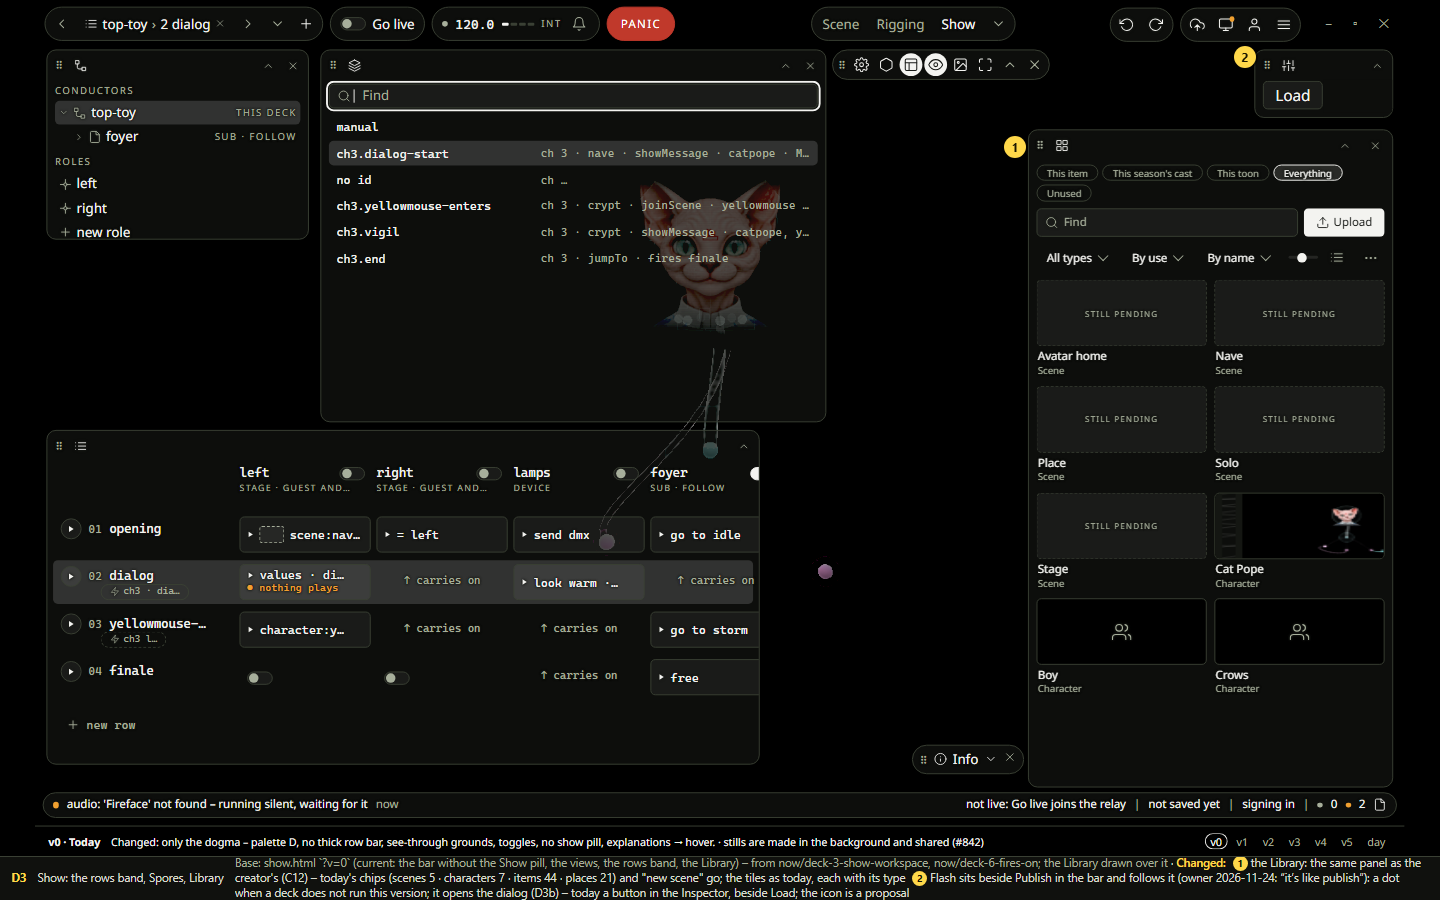
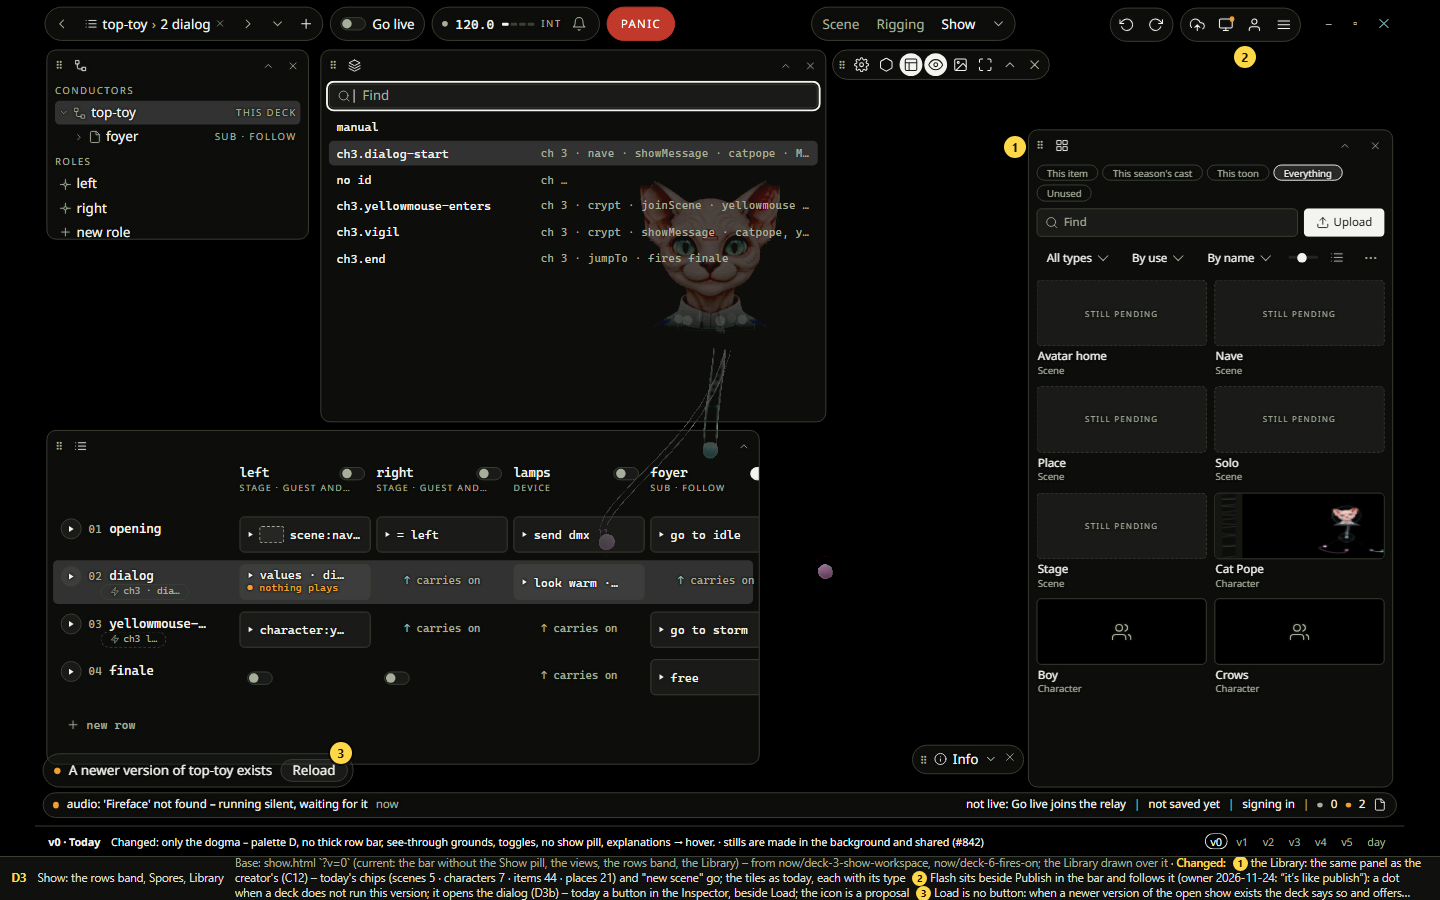
Lap 2: the deck's Load is a notice with Reload, not a button (RULES H19, owner 2026-11-24); D3 redrawn. Refs #626

Changed region(s): [[0.625, 0.9644, 0.9688, 1.0], [0.0312, 0.8089, 0.25, 0.8711], [0.875, 0.0622, 0.9375, 0.1244]]

diff --git a/agents/research/redesign/lap2/draft-screens.js b/agents/research/redesign/lap2/draft-screens.js
@@ -546,15 +546,17 @@ add('D', 'D2', 'Scene: Rig · Library · Inspector · Audio · Info · Mixer · 
 const SHOW_LIB = [['Avatar home','Scene',null],['Nave','Scene',null],['Place','Scene',null],['Solo','Scene',null],['Stage','Scene',null],['Cat Pope','Character',dkLibPic(290, 458, 100, 62)],['Boy','Character','users'],['Crows','Character','users']];
 add('D', 'D3', 'Show: the rows band, Spores, Library', 'show.html `?v=0` (current: the bar without the Show pill, the views, the rows band, the Library) – from now/deck-3-show-workspace, now/deck-6-fires-on; the Library drawn over it',
   ["the Library: the same panel as the creator's (C12) – today's chips (scenes 5 · characters 7 · items 44 · places 21) and \"new scene\" go; the tiles as today, each with its type",
-   'Flash sits beside Publish in the bar and follows it (owner 2026-11-24: “it’s like publish”): a dot when a deck does not run this version; it opens the dialog (D3b) – today a button in the Inspector, beside Load; the icon is a proposal'],
+   'Flash sits beside Publish in the bar and follows it (owner 2026-11-24: “it’s like publish”): a dot when a deck does not run this version; it opens the dialog (D3b) – today a button in the Inspector, beside Load; the icon is a proposal',
+   'Load is no button: when a newer version of the open show exists the deck says so and offers Reload – as the creator does (decided 2026-11-24); drawn above the status line, its place is a proposal'],
   () => `<iframe class="draft" src="show.html?v=0${DAY ? '&theme=day' : ''}"></iframe>
   <div class="abs" style="left:35px;top:0;width:1440px;height:900px;transform:scale(.95111);transform-origin:0 0" data-theme="night">
     <span class="abs" style="left:1040px;top:132px;width:392px;height:700px;background:#000"></span>
     <div class="fp" style="left:1044px;top:136px;width:384px;height:692px">${dkHead('grid')}<div class="bd">${libraryBody({ cols: 2, place: 'Everything', pvH: 70, tiles: SHOW_LIB })}</div></div>
     <span class="abs" style="left:1160px;top:4px;width:186px;height:44px;background:#000"></span>
-    <span class="abs" style="left:1355px;top:84px;width:72px;height:34px;background:#0d0e0c" title="the Flash button leaves the Inspector – it is in the bar now (no duplicates, H1)"></span>
+    <span class="abs" style="left:1276px;top:48px;width:160px;height:80px;background:#000" title="Load and Flash leave the Inspector: Flash is in the bar, Load is a notice"></span>
+    <span class="kp" style="position:absolute;left:8px;top:792px;gap:.6rem;padding:0 .35rem 0 .8rem;z-index:5"><span class="sdot" style="border-color:var(--tool-warn);background:var(--tool-warn);margin:0"></span>A newer version of top-toy exists<span class="kb plain" style="height:1.75rem">Reload</span></span>
     <span class="abs" style="left:1130px;top:8px;display:flex;gap:var(--kit-gap)"><span class="kp"><span class="kib">${ic('undo')}</span><span class="kib">${ic('redo')}</span></span><span class="kp"><span class="kib" title="Publish">${ic('cloud')}</span><span class="kib" title="Flash – a dot: a deck does not run this version">${ic('monitor')}<span class="dot"></span></span><span class="kib">${ic('user')}</span><span class="kib">${ic('menu')}</span></span></span></div>
-  ${mk(1, 1004, 136)}${mk(2, 1234, 46)}`);
+  ${mk(1, 1004, 136)}${mk(2, 1234, 46)}${mk(3, 330, 742)}`);
 /* D3b, D3c – the Show's Flash and Scene sheets as dialogs on the overlay level (decided 2026-11-24): the Show behind them blurred, the dialog a box of the kit. Their parts and words are today's (deck/editor/src/show/flash.rs with deck/show/src/choose.rs; new_scene.rs); the devices are top-toy's (the Conductors panel), the rigs the five in production. */
 const dlgBox = (x, y, w, h, title, body) => `<div class="fp" style="left:${x}px;top:${y}px;width:${w}px;height:${h}px;z-index:56"><div class="hd"><span class="tab on">${title}</span><span class="sp"></span><span class="ic" title="Esc">${ic('x')}</span></div><div class="bd">${body}</div></div>`;
 const dlgTick = (on) => `<span style="flex:none;width:1rem;height:1rem;border:1px solid var(--tool-${on ? 'text' : 'line'});border-radius:.2rem;display:grid;place-items:center;${on ? 'background:var(--tool-pressed);color:var(--tool-pressed-text)' : ''}">${on ? '<svg viewBox="0 0 24 24" style="width:.7rem;height:.7rem;fill:none;stroke:currentColor;stroke-width:3"><path d="M5 12l5 5 9-10"/></svg>' : ''}</span>`;

diff --git a/agents/decisions/law.md b/agents/decisions/law.md
@@ -4,6 +4,7 @@ The owner's words, one line each, newest first, append-only (how: agents/DECISIO
 Keys here: `[editor-style]` 33 the tools take the deck / OSCT editor style; the creator is desktop-only · `[vertex]` 1 OpenCode sessions use the `vienna-struggle` service account by the kind ladder · `[deck-rules-in-deck]` 3 deck rules live in the deck, the server keeps configuration · `[mcp-byo-ai]` 6 AI = the member's own Claude via MCP · `[worktree-requests]` 6 worktrees and branches: when, and the owner merges · `[docs]` 4 the docs structure and caps · `[language-neutral]` 3 everything language-independent · `[scenes-from-api]` 3 scenes are API content (entities), not TOML · `[audit]` 2 the bridge audit is standing and reruns often · `[browser-is-ui]` 2 the browser is UI, no business logic · `[designer-in-creator]` 2 the designer is in the creator; performance vs edit mode · `[dev-ports]` 2 fixed ports, one start routine · `[issues-only]` 2 all open work is GitHub issues · `[kanon]` 2 the Kanon (story texts) · `[mariadb]` 2 MariaDB only; production is the source · `[names]` 2 deck / stage environment / no master-slave wording · `[night-runs]` 2 unattended runs: merge to main, never push · `[no-cloud]` 2 no cloud sessions; workers local in worktrees · `[perf-first]` 2 performance and stability first · `[rigs-in-core]` 2 rigs and modules are Rust in the core · `[ai-license]` 1 AI models without the big companies' license limits · `[api-content]` 1 content from the API, JSON only as import / export · `[audiovisual]` 1 everything is audiovisual · `[board]` 1 the six board statuses · `[board-move]` 1 move issues along the board · `[bold]` 1 bold very rarely · `[branch-names]` 1 <kind>/<issue>-<title> · `[carrier-bag]` 1 "carrier bag" replaces inventory · `[codes]` 1 codes are case-sensitive · `[config-small]` 1 keep the configuration small · `[confirm]` 1 in-page confirmations · `[control-height]` 1 one control height · `[core-only]` 2 check:core-only ratchet · `[deck-ci-local]` 2 deck CI runs locally; stamps and the full tier · `[devices-via-core]` 1 camera / MIDI / sensors reach the core through adapters · `[done-green]` 1 done = green checks · `[drafts-first]` 1 bigger UI is drafted first · `[empty-states]` 1 empty states · `[fold]` 1 quiet fold buttons · `[law-book]` 1 this refactor · `[local-media]` 1 local media is a dev copy · `[mcp-draft-ok]` 1 save_draft always allowed · `[mcp-drafts]` 1 the AI saves drafts, the member confirms · `[mcp-restart]` 1 agents restart their own MCP · `[media-quality]` 1 media quality is a reader setting · `[migrations]` 1 the owner never runs migrations; format changes · `[models]` 1 model per task · `[module-restart]` 1 a new module is taken only by restart · `[music]` 1 every character makes music; how SCUTOONS began · `[no-backcompat-engine]` 1 no backwards compatibility for the audio engine · `[no-duplicate]` 1 no second copy of core logic · `[one-core]` 1 the one universal Rust core; platforms are target + adapters · `[one-engine]` 1 one audio engine, native ≡ wasm · `[own-video]` 1 own video playback, no browser API · `[packs]` 1 items / recipes are data packs · `[public-repo]` 1 repo public, Actions minutes free · `[readers-save-nothing]` 1 readers save nothing; no submit flow · `[rem]` 1 sizes in rem · `[round-square]` 1 round vs square controls · `[rust-engine]` 1 as much as possible in the Rust engine · `[rust-first]` 1 Rust first for everything native · `[slice-624]` 1 slice 390 × 624 · `[tempo-core]` 1 the tempo clock lives in the core · `[test-user]` 1 agents debug as the test user · `[ts-module-host]` 1 the TS module host is deleted · `[ts-tests]` 2 TypeScript + unit tests · `[urls]` 1 printed URLs never change · `[usage]` 1 usage reporting · `[ui-kit]` 8 one component library for shared 2D UI
 
 ## 2026-11
+- 2026-11-24 · ui deck · [editor-style] **Decided: the deck's Load is not a button – it works like the creator's reload when a new version arrived.** Load fetches the server's newest draft of the open show (show/mod.rs `load`: unsent changes stay and go up first; offline it opens the cached copy and says why). Owner: *"Yes, it should be something like the reload in creator when a new version arrived. Otherwise it's just a refresh button basically."* · → RULES H19, research/redesign/lap2/draft.html `?s=D3`, PLAN.md P2
 - 2026-11-24 · ui deck · [editor-style] **Decided: Flash is like Publish and follows the same UI and UX dogma – one way of sending out.** Asked by the owner where Flash is triggered from and how one gets to its dialog (today: a button in the Show's Inspector, beside Load; its list takes the stage's place). Owner: *"It's like publish, kind of."* · *"So they should follow a similar UI/UX dogma."* Drawn: the bar's icon beside Publish with a dot, and the same dialog as Publish (draft `?s=A10`, `?s=D3b`). The icon itself is a proposal. · → RULES H18, research/redesign/lap2/PLAN.md P2
 - 2026-11-24 · ui deck · [editor-style] **Decided: the Show's Flash and Scene sheets are dialogs on the overlay level, like New show – not views.** Corrects the default in the line below ("Flash and Scene sheets are views"): the deck orchestrator checked the code – Flash chooses the devices and sends the update on its confirm (flash.rs), Scene makes a new deck scene or recasts one and saves a draft (new_scene.rs); both are one-off tasks, not places to stay. Cues, Problems, Who, Session, Vote and Demos stay views (H16). Owner: *"Yes, dialogs."* · → research/redesign/lap2/PLAN.md ("Settled for the run")
 - 2026-11-24 · ui deck · [editor-style] **Settled for the lap 2 night run – the owner took the agent's defaults for the open points:** the four depth layers are named stage · surfaces · popovers · overlay; Search and dialogs sit on the overlay level; the switcher's content is at most 1160 px wide and its foot goes (the ☰ holds it); the workspace tab has no menu of its own in this lap; the deck's switcher has no Needs review box; Help and Go to are in the ☰ menu; a disabled primary button is the pressed fill, faded; the see-through grounds stand as redrawn; outlet colours are four – page · stage · target · device – on lane and column heads only; the Show's Flash and Scene sheets are views, New show is a dialog on the overlay level; no deck installers for Windows and macOS in this lap (the link works on Arch only); "Open in the deck" without a deck: the installed creator offers a download link, the web version just tries; dropping a Toon, Show, Generator, Kanon text or person does nothing yet, each opens in its own workspace. Owner: *"Yes, use them."* · → research/redesign/lap2/PLAN.md ("Settled for the run")

diff --git a/agents/research/redesign/lap2/NOTES.md b/agents/research/redesign/lap2/NOTES.md
@@ -132,3 +132,4 @@ Later, after these: the scene page + open in the deck; Catalog + Library; the on
 - **The two dialogs drawn** (owner, after "Yes, dialogs": *"But draw them so I can tell for sure."*) – draft `?s=D3b` (Flash: the devices with ticks and Find, then the prompt "Flash top-toy to 2 of 2 devices?" with A suggestion · Forced and Not locked · Locked, Back · Flash) and `?s=D3c` (New scene: id, stage, the cast from Cat Pope's rigs, Load … · Close · Play), each over the blurred Show; parts and words from flash.rs / choose.rs and new_scene.rs, the devices from the Conductors panel, the rigs the five in production. New show's sheet was not read, not drawn.
 - **Flash follows Publish** (owner, asking where Flash is triggered from and how one gets to the dialog: *"It's like publish, kind of."* · *"So they should follow a similar UI/UX dogma."*) – RULES H18, law.md, DECISIONS.md §3, PLAN.md P2. Today: Flash is a button in the Show's Inspector beside Load (author.rs), its sheet takes the stage's place; Publish in the creator is the bar's icon with a dot and the publish tree ("Publish – everything", All · None, "Publish {count}", the report). Drawn: A10 (Publish as the dialog), D3b (Flash in the same box, then today's confirm), D3 (the Flash icon beside Publish in the deck's bar, the Inspector's button gone). Open: the Flash icon; where "New scene" opens from once the Library has no such button.
 - **The deck orchestrator on Flash and New scene** (2026-11-24): the dot can be fed today – a flash pins a show version, choose.rs marks each device "not on this version" and knows online / offline; offline counts as unknown, not old; software updates do not feed it. New scene: the ☰ menu's "New …" (bar.rs `Action::New`), offering scene and show, each a dialog; a recast from a scene's own menu. The icon: deck-kit has `monitor` and `package` – it would take `package`. Folded into PLAN.md P2 and its open table.
+- **Decided: Load is a notice with Reload, not a button** (owner, on what Load does: *"Yes, it should be something like the reload in creator when a new version arrived. Otherwise it's just a refresh button basically."*) – RULES H19, law.md, DECISIONS.md §3, PLAN.md P2. The creator's notice today: "Someone saved a newer version of {file}. Reload to get it, or overwrite it with yours." with Reload. Drawn on D3: Load and Flash gone from the Inspector, the notice above the status line (its place a proposal).

diff --git a/agents/research/redesign/lap2/PLAN.md b/agents/research/redesign/lap2/PLAN.md
@@ -33,6 +33,7 @@ The set of SCREENS.md is redrawn in the approved kit with the day's decisions, e
 - **A panel taken full:** a box close to the window's edges over the blurred workspace.
 - **Sending out (H18):** Publish as a dialog on the overlay level (A10); Flash in the deck the same dialog, opened from the bar beside Publish, its button leaves the Show's Inspector (D3, D3b).
 - **Flash's dot** (deck): lit when at least one device of the tree is not on the show's current version – the deck already knows that per device. A device that is offline counts as unknown, not as behind, and is listed under its own word. Updates of the deck's software are another path and do not light it.
+- **Load becomes a notice (H19, deck):** the Load button leaves the Show's Inspector; when the server has a newer draft of the open show, the deck says so and offers Reload. Unsent changes still go up first; offline it still opens the cached copy and says why. What tells the deck that a newer draft exists – asking the server now and then, or a message over the relay – is the deck orchestrator's to say.
 - **Search** as its own overlay. **The user menu** under the account icon. **The translator's bar** with the edit language.
 - **Deck:** the same bar, menu and switcher (#830 continues from its branch); the Show's Cues, Problems, Who, Session, Vote and Demos become views; Home stays when nothing is open, built like the creator's dashboard (your review of 2026-11-23). #830 merges main first.
 - **Blur in the deck** (deck: decided there): a still of the frame, taken when the overlay opens, blurred once and drawn under it. It costs nothing per frame and the projector's output is not touched. **A known limit:** during a live show the operator's stage preview stands still while the switcher is open. You said: try it; "reduce motion" turns the blur off as it turns the animations off, in both apps.

diff --git a/agents/RULES.md b/agents/RULES.md
@@ -106,6 +106,7 @@ Old section names in code comments (until 2026-11-03): "Backlog" = C · "Git, se
 - **H16** The bar's middle holds the workspace row and nothing else. What a workspace has of its own – the Show's Cues, Problems, Who, Session, Vote and Demos – is a view of that workspace: listed in the ☰ Views with the four states (hidden · panel · stage · full), never a pill of its own in the bar. (2026-11-24 [editor-style])
 - **H17** The tools do not flag what is missing. A blank slot, a missing version or a missing credit may be on purpose: no "wanted" or "missing" groups, counts or warnings in panels (the Library's Blank – wanted · Missing versions · Missing credits go). A member who wants to see the gaps asks for them. (2026-11-24 [editor-style])
 - **H18** Sending out has one pattern. Publish (drafts to readers) and Flash (a show to the decks) are the same act: one icon in the bar, with a dot when something is not out yet; one dialog on the overlay level that lists what goes out, ticked, with All and None; one primary button with the count; the confirm where one is needed; a report in the same place. No second way in from a panel. (2026-11-24 [editor-style])
+- **H19** No refresh buttons. When a newer version of what is open exists, the tool says so and offers Reload – the same notice in both apps (the creator: "Someone saved a newer version … Reload"). The deck's Load button goes. (2026-11-24 [editor-style])
 
 ## I · Product
 - **I1** Printed / public URLs never change (QR `?c=`, `/verify.html`, `/<toon>`, `/<toon>/chapter/<n>`, `?code=`, locale prefixes); new may be added; a change only by server-side mapping + tests + rollback (PLATFORM "Printed URLs"). Codes are case-sensitive. (2026-09-30 [urls], 2026-10-03 [codes])

diff --git a/agents/research/redesign/lap2/DECISIONS.md b/agents/research/redesign/lap2/DECISIONS.md
@@ -44,6 +44,7 @@ One line per decision. **Open** lists what still needs the owner's word; **Thoug
 - **A craft shapes the bar:** the translator's bar carries the edit language.
 - **The Show's own pill goes.** Cues, Problems, Who, Session, Vote and Demos are views of the Show workspace, listed in the ☰ Views. The bar's middle holds the workspace row and nothing else. (H16)
 - **Sending out has one pattern** (H18): Publish and Flash are one icon each in the bar, with a dot when something is not out yet, and the same dialog – what goes out, ticked; All · None; one primary button with the count; a report after.
+- **No refresh buttons** (H19): the deck's Load goes. When a newer version of the open show exists, the deck says so and offers Reload, as the creator does.
 - **Resume across devices** (built, #838). Existing members are asked their crafts once.
 - **Settled for the run (2026-11-24):** the switcher's content is at most 1160 px wide; its foot goes; the workspace tab has no menu of its own in this lap; the deck's switcher has no Needs review box; Help and Go to are in the ☰ menu; the Show's Flash, Scene and New show are dialogs on the overlay level – one-off tasks that end in a confirm or a save.
 
